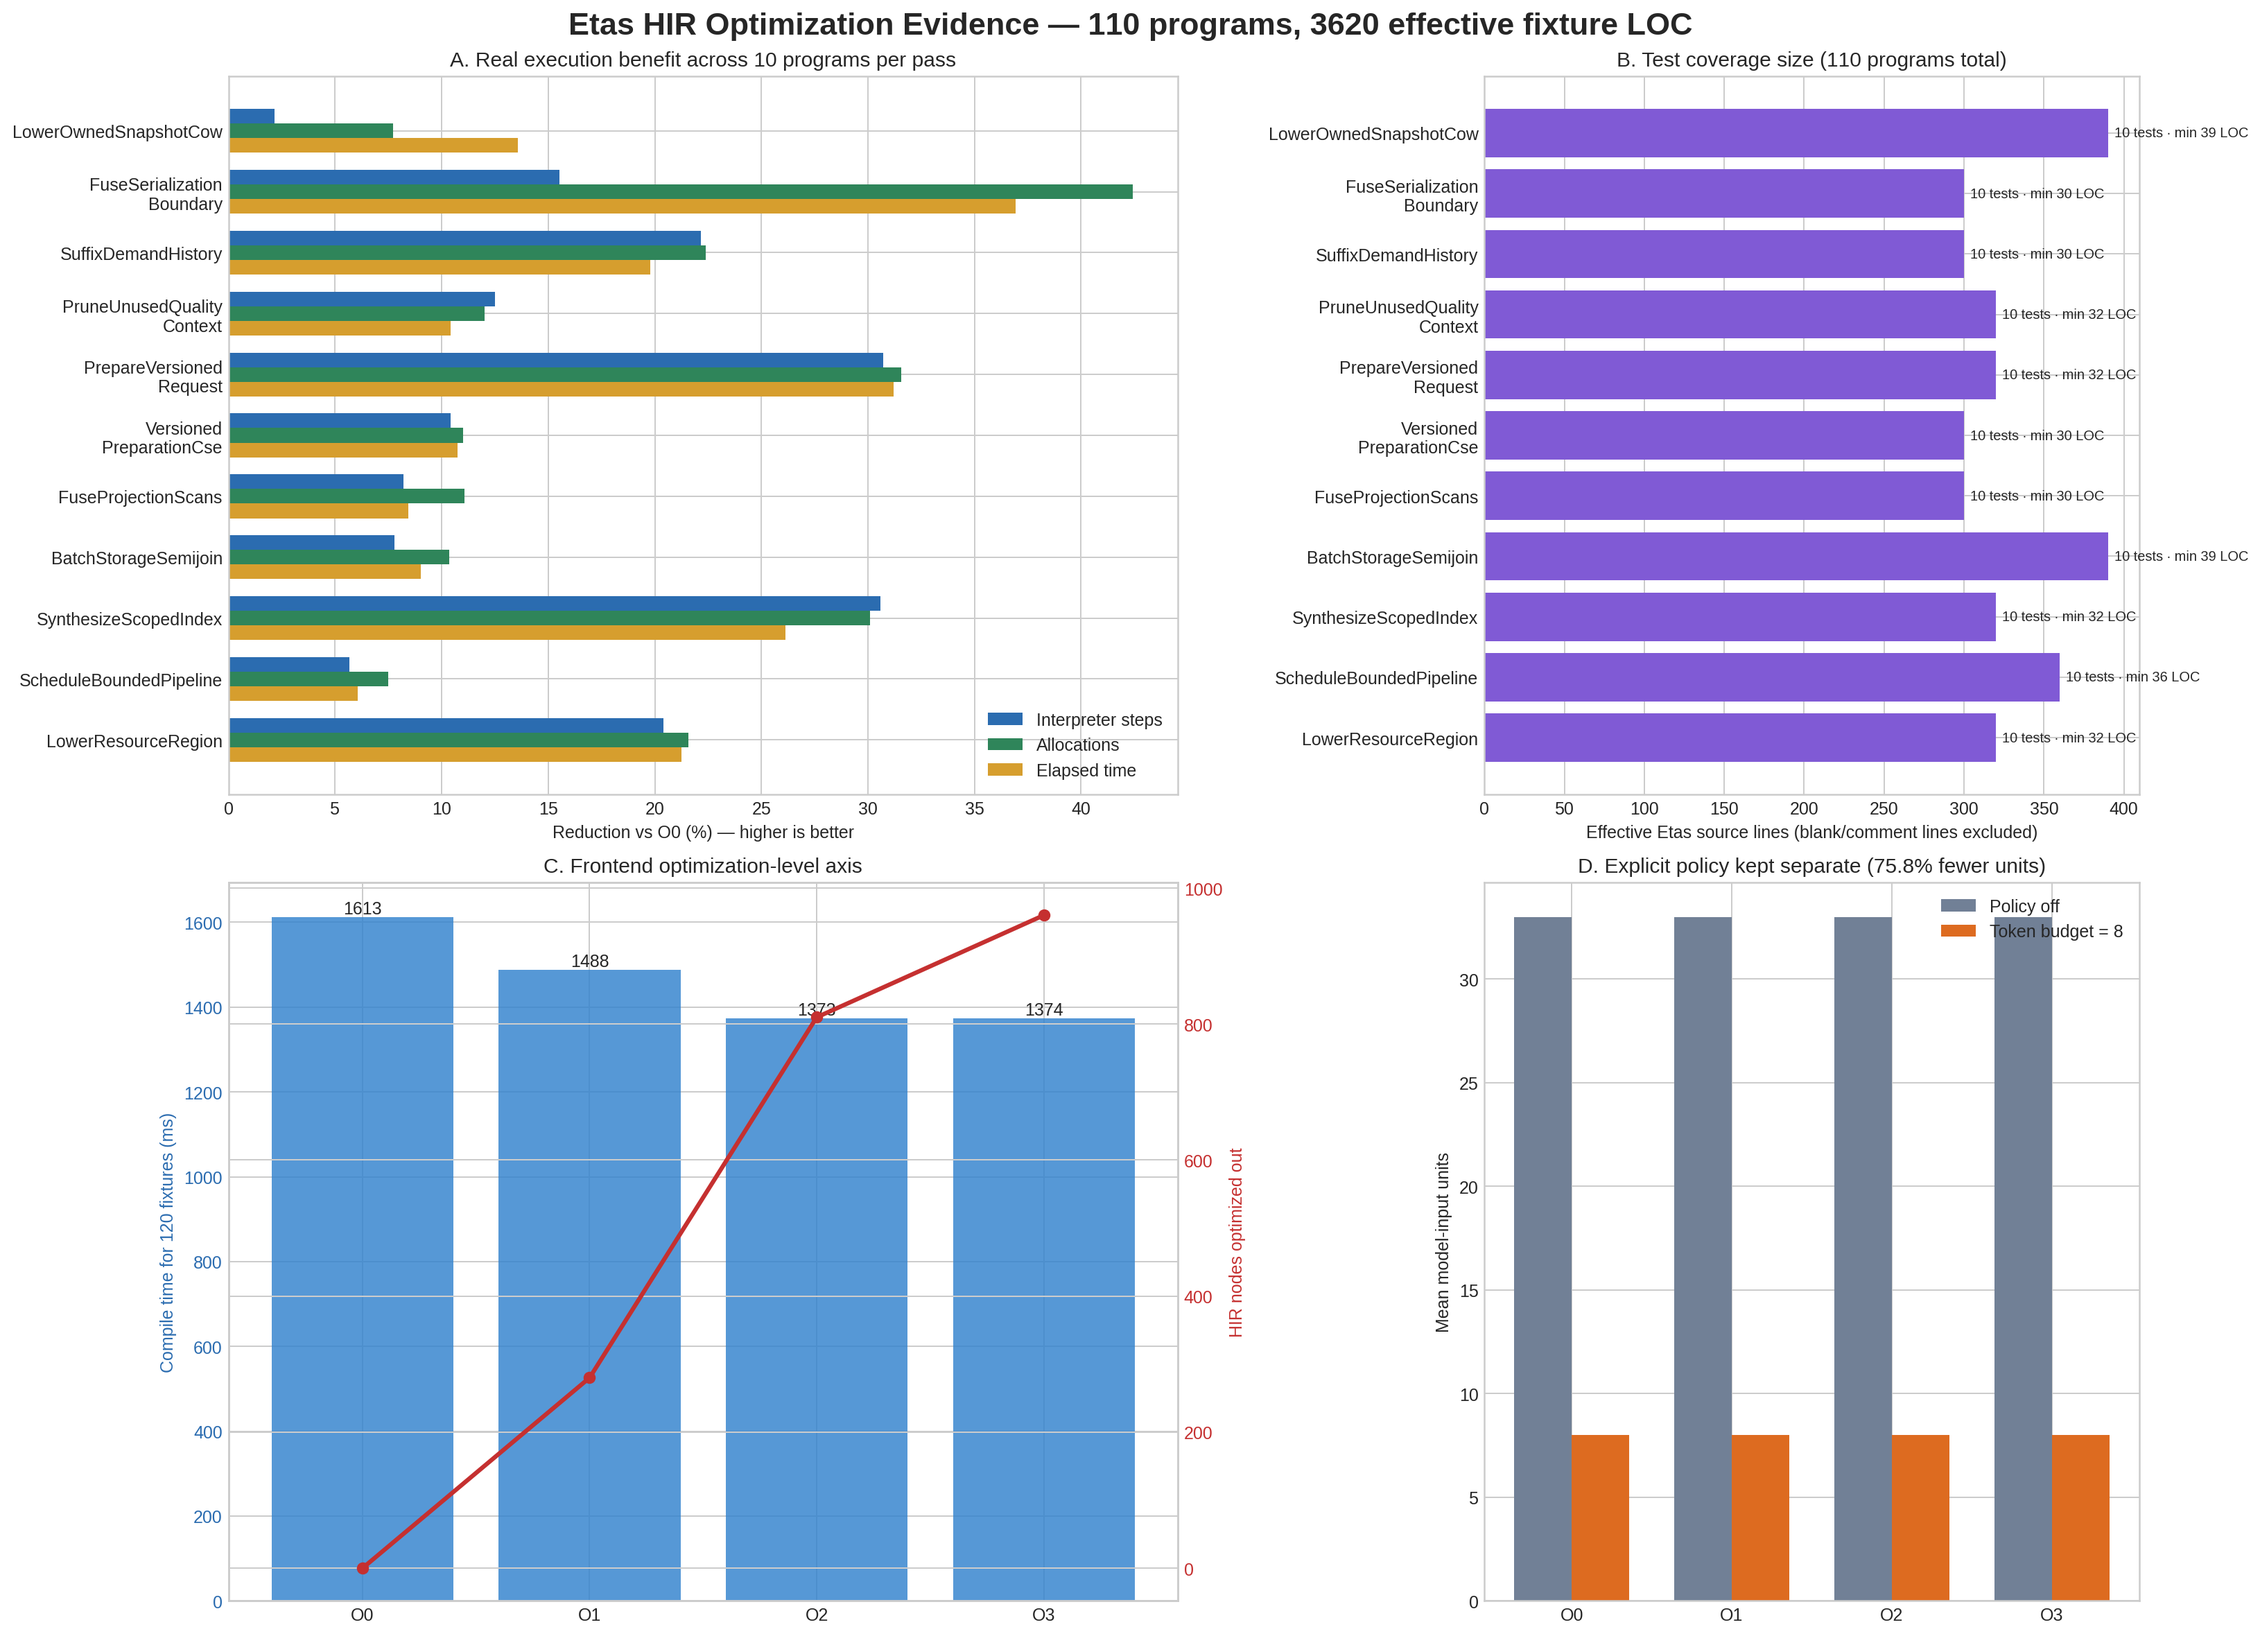
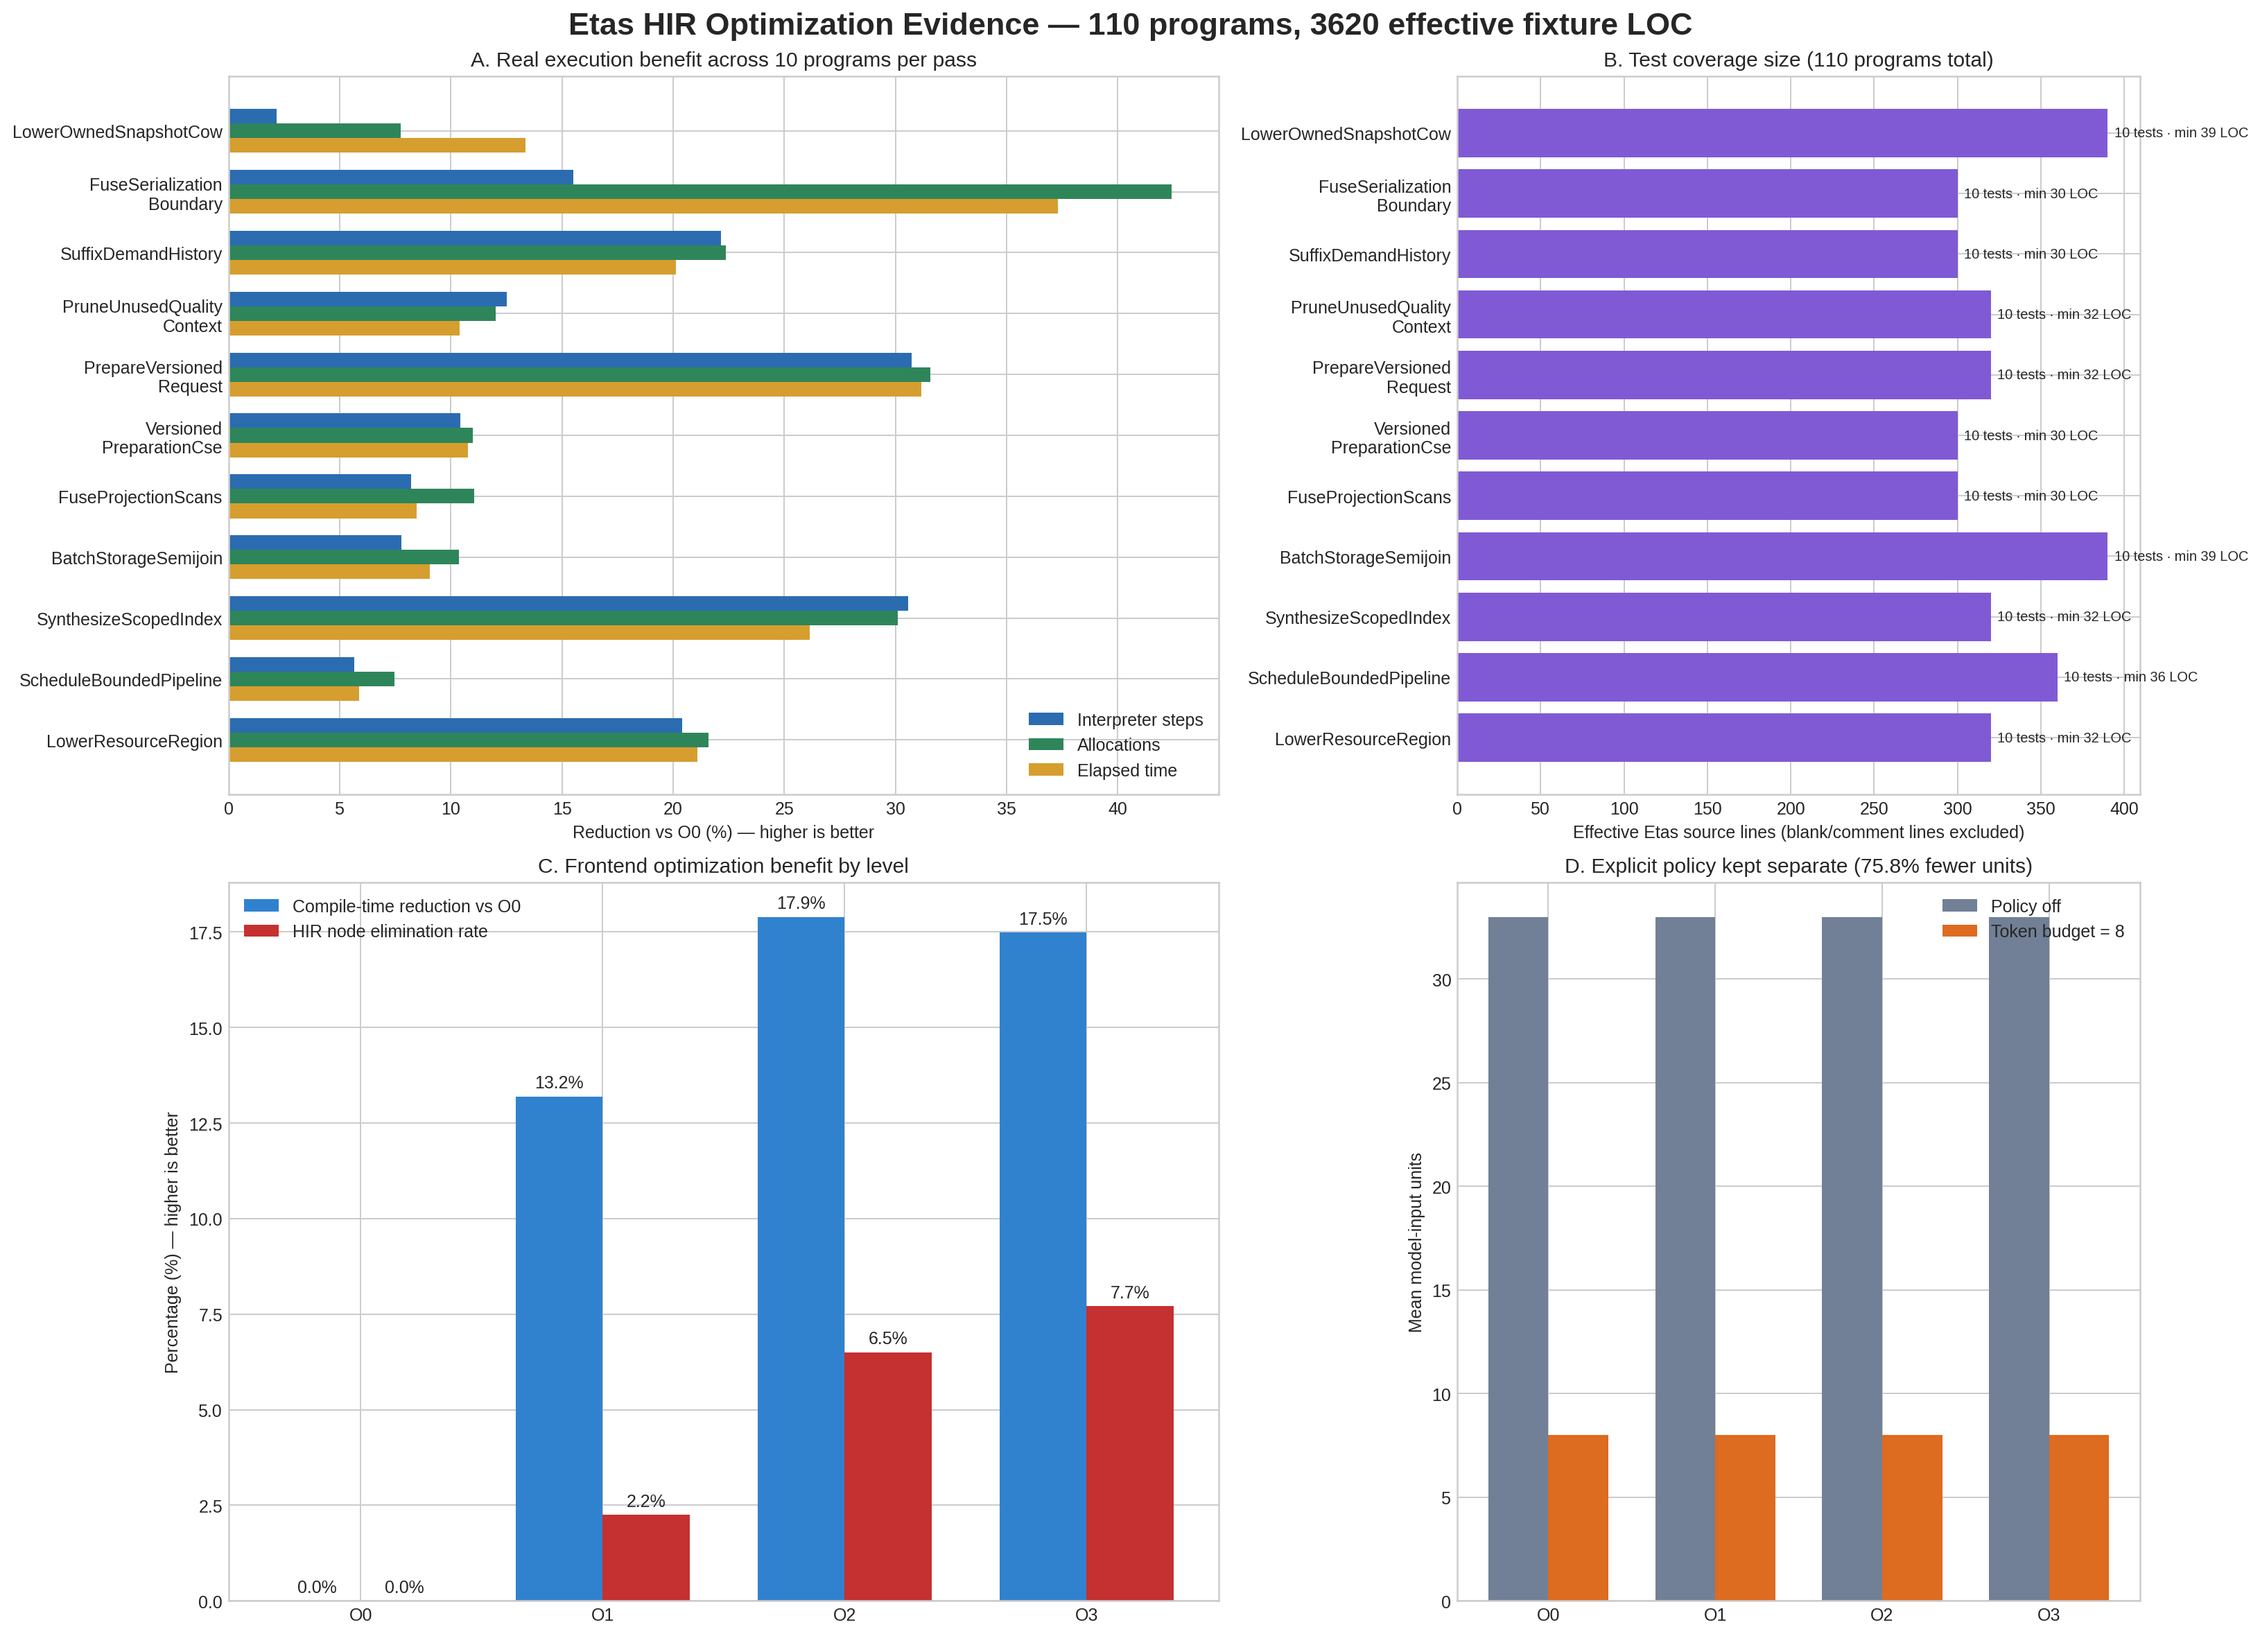
chore(metrics): chart frontend benefits as percentages

diff --git a/scripts/plot_optimization_metrics.py b/scripts/plot_optimization_metrics.py
@@ -225,16 +225,36 @@ def plot(rows, policy_rows, levels, stats, output):
     level_names = [row["level"] for row in levels]
     compile_ms = [int(row["compile_ms"]) for row in levels]
     optimized_out = [int(row["optimized_out_nodes"]) for row in levels]
-    bars = ax.bar(level_names, compile_ms, color="#3182ce", alpha=0.82)
-    ax.set_ylabel("Compile time for 120 fixtures (ms)", color="#2b6cb0")
-    ax.tick_params(axis="y", labelcolor="#2b6cb0")
-    ax.set_title("C. Frontend optimization-level axis")
-    for bar, value in zip(bars, compile_ms):
-        ax.text(bar.get_x() + bar.get_width() / 2, value, str(value), ha="center", va="bottom")
-    twin = ax.twinx()
-    twin.plot(level_names, optimized_out, color="#c53030", marker="o", linewidth=2.5)
-    twin.set_ylabel("HIR nodes optimized out", color="#c53030")
-    twin.tick_params(axis="y", labelcolor="#c53030")
+    hir_nodes = [int(row["hir_nodes"]) for row in levels]
+    baseline_compile_ms = compile_ms[0]
+    compile_reduction = [
+        100.0 * (baseline_compile_ms - value) / baseline_compile_ms
+        for value in compile_ms
+    ]
+    hir_elimination = [
+        100.0 * removed / total for removed, total in zip(optimized_out, hir_nodes)
+    ]
+    x = np.arange(len(level_names))
+    compile_bars = ax.bar(
+        x - 0.18,
+        compile_reduction,
+        0.36,
+        label="Compile-time reduction vs O0",
+        color="#3182ce",
+    )
+    hir_bars = ax.bar(
+        x + 0.18,
+        hir_elimination,
+        0.36,
+        label="HIR node elimination rate",
+        color="#c53030",
+    )
+    ax.set_xticks(x, level_names)
+    ax.set_ylabel("Percentage (%) — higher is better")
+    ax.set_title("C. Frontend optimization benefit by level")
+    ax.legend(loc="upper left")
+    ax.bar_label(compile_bars, fmt="%.1f%%", padding=3)
+    ax.bar_label(hir_bars, fmt="%.1f%%", padding=3)
 
     ax = fig.add_subplot(grid[1, 1])
     policy_by_level = defaultdict(list)
